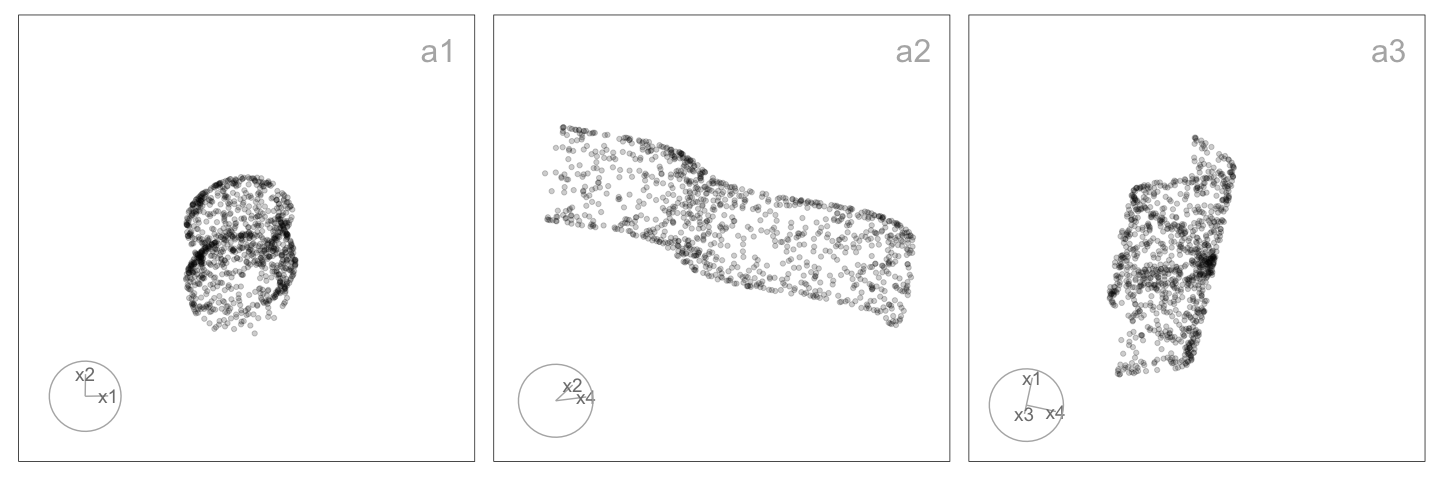
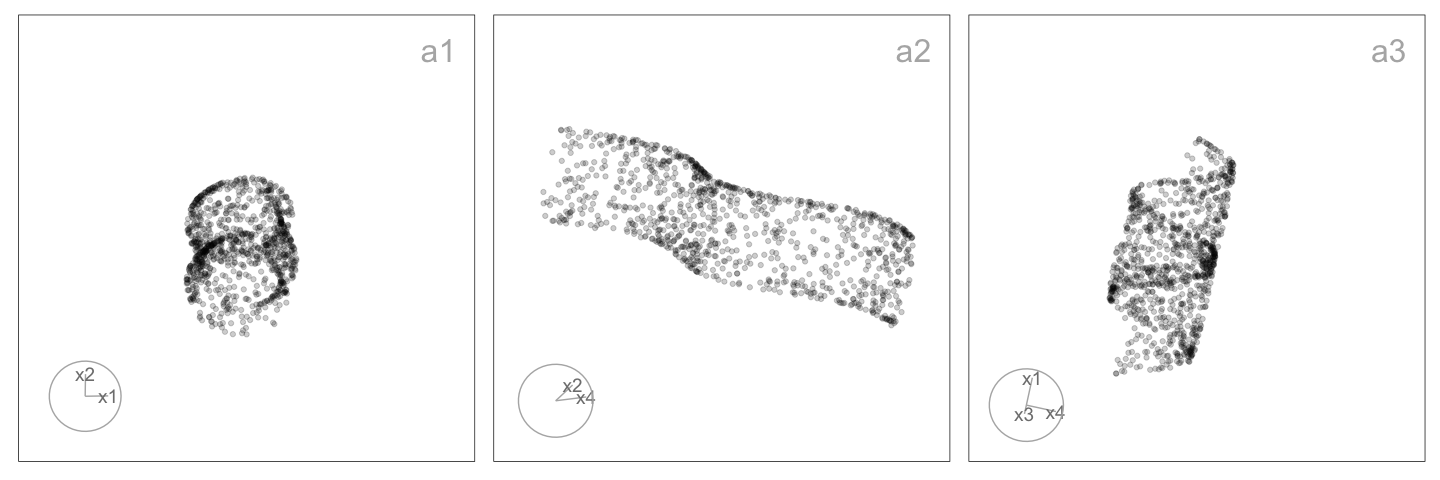
Added projection for S-curve data

Changed region(s): [[0.375, 0.25, 0.6562, 0.6875], [0.75, 0.2812, 0.875, 0.7812], [0.125, 0.3438, 0.2188, 0.7188]]

diff --git a/paper-cardinalR.html b/paper-cardinalR.html
@@ -177,7 +177,7 @@ code span.wa { color: #5e5e5e; font-style: italic; } /* Warning */
   <!--/radix_placeholder_rmarkdown_metadata-->
   
   <script type="text/json" id="radix-resource-manifest">
-  {"type":"character","attributes":{},"value":["data/five_clusts/five_clusts_pacmap_n-neighbors_10_init_random_MN-ratio_0.5_FP-ratio_2.rds","data/five_clusts/five_clusts_pca.rds","data/five_clusts/five_clusts_phate_knn_5.rds","data/five_clusts/five_clusts_trimap_n-inliers_12_n-outliers_4_n-random_3.rds","data/five_clusts/five_clusts_tsne_perplexity_30.rds","data/five_clusts/five_clusts_umap_n-neigbors_15_min-dist_0.1.rds","data/five_clusts/five_clusts.rds","data/three_clusts/three_clusts.rds","figures/penguins.png","motivation-letter/motivation-letter.md","motivation-letter.pdf","paper-cardinalR_files/anchor-4.2.2/anchor.min.js","paper-cardinalR_files/bowser-1.9.3/bowser.min.js","paper-cardinalR_files/distill-2.2.21/template.v2.js","paper-cardinalR_files/figure-html5/expbranches-projections1-1.png","paper-cardinalR_files/figure-html5/fig-cone-proj-1.png","paper-cardinalR_files/figure-html5/fig-conicspiral-proj-1.png","paper-cardinalR_files/figure-html5/fig-crescent-proj-1.png","paper-cardinalR_files/figure-html5/fig-curvycylinder-proj-1.png","paper-cardinalR_files/figure-html5/fig-gau-proj-1.png","paper-cardinalR_files/figure-html5/fig-helicalspiral-proj-1.png","paper-cardinalR_files/figure-html5/fig-highd-proj-1.png","paper-cardinalR_files/figure-html5/fig-linear-proj-1.png","paper-cardinalR_files/figure-html5/fig-mobius-proj-1.png","paper-cardinalR_files/figure-html5/fig-nldr-layouts-1.png","paper-cardinalR_files/figure-html5/fig-nonlinear-proj-1.png","paper-cardinalR_files/figure-html5/fig-sphericalspiral-proj-1.png","paper-cardinalR_files/figure-html5/fig-swissroll-proj-1.png","paper-cardinalR_files/figure-html5/unnamed-chunk-13-1.png","paper-cardinalR_files/figure-html5/unnamed-chunk-14-1.png","paper-cardinalR_files/figure-html5/unnamed-chunk-15-1.png","paper-cardinalR_files/header-attrs-2.29/header-attrs.js","paper-cardinalR_files/htmltools-fill-0.5.8.1/fill.css","paper-cardinalR_files/htmlwidgets-1.6.4/htmlwidgets.js","paper-cardinalR_files/jquery-3.6.0/jquery-3.6.0.js","paper-cardinalR_files/jquery-3.6.0/jquery-3.6.0.min.js","paper-cardinalR_files/jquery-3.6.0/jquery-3.6.0.min.map","paper-cardinalR_files/langevitour-0.8.0/langevitour-pack.js","paper-cardinalR_files/langevitour-binding-0.8.0/langevitour.js","paper-cardinalR_files/popper-2.6.0/popper.min.js","paper-cardinalR_files/tippy-6.2.7/tippy-bundle.umd.min.js","paper-cardinalR_files/tippy-6.2.7/tippy-light-border.css","paper-cardinalR_files/tippy-6.2.7/tippy.css","paper-cardinalR_files/tippy-6.2.7/tippy.umd.min.js","paper-cardinalR_files/webcomponents-2.0.0/webcomponents.js","paper-cardinalR.bib","paper-cardinalR.log","paper-cardinalR.pdf","paper-cardinalR.tex","RJournal.sty","RJwrapper.bbl","RJwrapper.blg","RJwrapper.brf","RJwrapper.log","RJwrapper.tex","Rlogo-5.png","scripts/additional_functions.R","scripts/five_clusts/01_data_generation.R","scripts/five_clusts/02_gen_embeddings.R","style.css"]}
+  {"type":"character","attributes":{},"value":["data/five_clusts/five_clusts_pacmap_n-neighbors_10_init_random_MN-ratio_0.5_FP-ratio_2.rds","data/five_clusts/five_clusts_pca.rds","data/five_clusts/five_clusts_phate_knn_5.rds","data/five_clusts/five_clusts_trimap_n-inliers_12_n-outliers_4_n-random_3.rds","data/five_clusts/five_clusts_tsne_perplexity_30.rds","data/five_clusts/five_clusts_umap_n-neigbors_15_min-dist_0.1.rds","data/five_clusts/five_clusts.rds","data/three_clusts/three_clusts.rds","figures/penguins.png","motivation-letter/motivation-letter.md","motivation-letter.pdf","paper-cardinalR_files/anchor-4.2.2/anchor.min.js","paper-cardinalR_files/bowser-1.9.3/bowser.min.js","paper-cardinalR_files/distill-2.2.21/template.v2.js","paper-cardinalR_files/figure-html5/expbranches-projections1-1.png","paper-cardinalR_files/figure-html5/fig-cone-proj-1.png","paper-cardinalR_files/figure-html5/fig-conicspiral-proj-1.png","paper-cardinalR_files/figure-html5/fig-crescent-proj-1.png","paper-cardinalR_files/figure-html5/fig-curvycylinder-proj-1.png","paper-cardinalR_files/figure-html5/fig-gau-proj-1.png","paper-cardinalR_files/figure-html5/fig-helicalspiral-proj-1.png","paper-cardinalR_files/figure-html5/fig-highd-proj-1.png","paper-cardinalR_files/figure-html5/fig-linear-proj-1.png","paper-cardinalR_files/figure-html5/fig-mobius-proj-1.png","paper-cardinalR_files/figure-html5/fig-nldr-layouts-1.png","paper-cardinalR_files/figure-html5/fig-nonlinear-proj-1.png","paper-cardinalR_files/figure-html5/fig-scurve-proj-1.png","paper-cardinalR_files/figure-html5/fig-scurvehole-proj-1.png","paper-cardinalR_files/figure-html5/fig-sphericalspiral-proj-1.png","paper-cardinalR_files/figure-html5/fig-swissroll-proj-1.png","paper-cardinalR_files/figure-html5/unnamed-chunk-13-1.png","paper-cardinalR_files/figure-html5/unnamed-chunk-14-1.png","paper-cardinalR_files/figure-html5/unnamed-chunk-15-1.png","paper-cardinalR_files/header-attrs-2.29/header-attrs.js","paper-cardinalR_files/htmltools-fill-0.5.8.1/fill.css","paper-cardinalR_files/htmlwidgets-1.6.4/htmlwidgets.js","paper-cardinalR_files/jquery-3.6.0/jquery-3.6.0.js","paper-cardinalR_files/jquery-3.6.0/jquery-3.6.0.min.js","paper-cardinalR_files/jquery-3.6.0/jquery-3.6.0.min.map","paper-cardinalR_files/langevitour-0.8.0/langevitour-pack.js","paper-cardinalR_files/langevitour-binding-0.8.0/langevitour.js","paper-cardinalR_files/popper-2.6.0/popper.min.js","paper-cardinalR_files/tippy-6.2.7/tippy-bundle.umd.min.js","paper-cardinalR_files/tippy-6.2.7/tippy-light-border.css","paper-cardinalR_files/tippy-6.2.7/tippy.css","paper-cardinalR_files/tippy-6.2.7/tippy.umd.min.js","paper-cardinalR_files/webcomponents-2.0.0/webcomponents.js","paper-cardinalR.bib","paper-cardinalR.log","paper-cardinalR.pdf","paper-cardinalR.tex","RJournal.sty","RJwrapper.bbl","RJwrapper.blg","RJwrapper.brf","RJwrapper.log","RJwrapper.tex","Rlogo-5.png","scripts/additional_functions.R","scripts/five_clusts/01_data_generation.R","scripts/five_clusts/02_gen_embeddings.R","style.css"]}
   </script>
   <!--radix_placeholder_navigation_in_header-->
   <!--/radix_placeholder_navigation_in_header-->
@@ -2256,6 +2256,56 @@ Figure 4: Three <span class="math inline">\(2\text{-}D\)</span> projections from
 <div class="layout-chunk" data-layout="l-body">
 
 </div>
+<div class="layout-chunk" data-layout="l-body">
+<div class="sourceCode">
+<pre class="sourceCode r"><code class="sourceCode r"><span><span class='va'>scurve</span> <span class='op'>&lt;-</span> <span class='fu'>gen_scurve</span><span class='op'>(</span>n <span class='op'>=</span> <span class='fl'>1000</span>, p <span class='op'>=</span> <span class='fl'>4</span><span class='op'>)</span></span></code></pre>
+</div>
+</div>
+<div class="layout-chunk" data-layout="l-body">
+
+</div>
+<div class="layout-chunk" data-layout="l-body">
+
+</div>
+<div class="layout-chunk" data-layout="l-body">
+
+</div>
+<div class="layout-chunk" data-layout="l-body">
+
+</div>
+<div class="layout-chunk" data-layout="l-body">
+<div class="figure"><span style="display:block;" id="fig:fig-scurve-proj"></span>
+<img src="paper-cardinalR_files/figure-html5/fig-scurve-proj-1.png" alt="Three $2\text{-}D$ projections from $4\text{-}D$, for the `scurve` data." width="100%" />
+<p class="caption">
+Figure 5: Three <span class="math inline">\(2\text{-}D\)</span> projections from <span class="math inline">\(4\text{-}D\)</span>, for the <code>scurve</code> data.
+</p>
+</div>
+</div>
+<div class="layout-chunk" data-layout="l-body">
+<div class="sourceCode">
+<pre class="sourceCode r"><code class="sourceCode r"><span><span class='va'>scurvehole</span> <span class='op'>&lt;-</span> <span class='fu'>gen_scurvehole</span><span class='op'>(</span>n <span class='op'>=</span> <span class='fl'>1000</span>, p <span class='op'>=</span> <span class='fl'>4</span><span class='op'>)</span></span></code></pre>
+</div>
+</div>
+<div class="layout-chunk" data-layout="l-body">
+
+</div>
+<div class="layout-chunk" data-layout="l-body">
+
+</div>
+<div class="layout-chunk" data-layout="l-body">
+
+</div>
+<div class="layout-chunk" data-layout="l-body">
+
+</div>
+<div class="layout-chunk" data-layout="l-body">
+<div class="figure"><span style="display:block;" id="fig:fig-scurvehole-proj"></span>
+<img src="paper-cardinalR_files/figure-html5/fig-scurvehole-proj-1.png" alt="Three $2\text{-}D$ projections from $4\text{-}D$, for the `scurvehole` data." width="100%" />
+<p class="caption">
+Figure 6: Three <span class="math inline">\(2\text{-}D\)</span> projections from <span class="math inline">\(4\text{-}D\)</span>, for the <code>scurvehole</code> data.
+</p>
+</div>
+</div>
 <h4 class="unnumbered" data-number="2.4.11" id="sphere">Sphere</h4>
 <div class="layout-chunk" data-layout="l-body">
 
@@ -2336,7 +2386,7 @@ X_i = \frac{\sin(i t)}{i}, \quad \text{for } i \geq 4.
 <div class="figure"><span style="display:block;" id="fig:fig-swissroll-proj"></span>
 <img src="paper-cardinalR_files/figure-html5/fig-swissroll-proj-1.png" alt="Three $2\text{-}D$ projections from $4\text{-}D$, for the `swissroll` data." width="100%" />
 <p class="caption">
-Figure 5: Three <span class="math inline">\(2\text{-}D\)</span> projections from <span class="math inline">\(4\text{-}D\)</span>, for the <code>swissroll</code> data.
+Figure 7: Three <span class="math inline">\(2\text{-}D\)</span> projections from <span class="math inline">\(4\text{-}D\)</span>, for the <code>swissroll</code> data.
 </p>
 </div>
 </div>
@@ -2405,7 +2455,7 @@ Figure 5: Three <span class="math inline">\(2\text{-}D\)</span> projections from
 <div class="figure"><span style="display:block;" id="fig:fig-crescent-proj"></span>
 <img src="paper-cardinalR_files/figure-html5/fig-crescent-proj-1.png" alt="Three $2\text{-}D$ projections from $4\text{-}D$, for the `crescent` data." width="100%" />
 <p class="caption">
-Figure 6: Three <span class="math inline">\(2\text{-}D\)</span> projections from <span class="math inline">\(4\text{-}D\)</span>, for the <code>crescent</code> data.
+Figure 8: Three <span class="math inline">\(2\text{-}D\)</span> projections from <span class="math inline">\(4\text{-}D\)</span>, for the <code>crescent</code> data.
 </p>
 </div>
 </div>
@@ -2430,7 +2480,7 @@ Figure 6: Three <span class="math inline">\(2\text{-}D\)</span> projections from
 <div class="figure"><span style="display:block;" id="fig:fig-curvycylinder-proj"></span>
 <img src="paper-cardinalR_files/figure-html5/fig-curvycylinder-proj-1.png" alt="Three $2\text{-}D$ projections from $4\text{-}D$, for the `curvycylinder` data." width="100%" />
 <p class="caption">
-Figure 7: Three <span class="math inline">\(2\text{-}D\)</span> projections from <span class="math inline">\(4\text{-}D\)</span>, for the <code>curvycylinder</code> data.
+Figure 9: Three <span class="math inline">\(2\text{-}D\)</span> projections from <span class="math inline">\(4\text{-}D\)</span>, for the <code>curvycylinder</code> data.
 </p>
 </div>
 </div>
@@ -2455,7 +2505,7 @@ Figure 7: Three <span class="math inline">\(2\text{-}D\)</span> projections from
 <div class="figure"><span style="display:block;" id="fig:fig-sphericalspiral-proj"></span>
 <img src="paper-cardinalR_files/figure-html5/fig-sphericalspiral-proj-1.png" alt="Three $2\text{-}D$ projections from $4\text{-}D$, for the `sphericalspiral` data." width="100%" />
 <p class="caption">
-Figure 8: Three <span class="math inline">\(2\text{-}D\)</span> projections from <span class="math inline">\(4\text{-}D\)</span>, for the <code>sphericalspiral</code> data.
+Figure 10: Three <span class="math inline">\(2\text{-}D\)</span> projections from <span class="math inline">\(4\text{-}D\)</span>, for the <code>sphericalspiral</code> data.
 </p>
 </div>
 </div>
@@ -2480,7 +2530,7 @@ Figure 8: Three <span class="math inline">\(2\text{-}D\)</span> projections from
 <div class="figure"><span style="display:block;" id="fig:fig-helicalspiral-proj"></span>
 <img src="paper-cardinalR_files/figure-html5/fig-helicalspiral-proj-1.png" alt="Three $2\text{-}D$ projections from $4\text{-}D$, for the `helicalspiral` data." width="100%" />
 <p class="caption">
-Figure 9: Three <span class="math inline">\(2\text{-}D\)</span> projections from <span class="math inline">\(4\text{-}D\)</span>, for the <code>helicalspiral</code> data.
+Figure 11: Three <span class="math inline">\(2\text{-}D\)</span> projections from <span class="math inline">\(4\text{-}D\)</span>, for the <code>helicalspiral</code> data.
 </p>
 </div>
 </div>
@@ -2505,7 +2555,7 @@ Figure 9: Three <span class="math inline">\(2\text{-}D\)</span> projections from
 <div class="figure"><span style="display:block;" id="fig:fig-conicspiral-proj"></span>
 <img src="paper-cardinalR_files/figure-html5/fig-conicspiral-proj-1.png" alt="Three $2\text{-}D$ projections from $4\text{-}D$, for the `conicspiral` data." width="100%" />
 <p class="caption">
-Figure 10: Three <span class="math inline">\(2\text{-}D\)</span> projections from <span class="math inline">\(4\text{-}D\)</span>, for the <code>conicspiral</code> data.
+Figure 12: Three <span class="math inline">\(2\text{-}D\)</span> projections from <span class="math inline">\(4\text{-}D\)</span>, for the <code>conicspiral</code> data.
 </p>
 </div>
 </div>
@@ -2530,7 +2580,7 @@ Figure 10: Three <span class="math inline">\(2\text{-}D\)</span> projections fro
 <div class="figure"><span style="display:block;" id="fig:fig-nonlinear-proj"></span>
 <img src="paper-cardinalR_files/figure-html5/fig-nonlinear-proj-1.png" alt="Three $2\text{-}D$ projections from $4\text{-}D$, for the `nonlinear` data." width="100%" />
 <p class="caption">
-Figure 11: Three <span class="math inline">\(2\text{-}D\)</span> projections from <span class="math inline">\(4\text{-}D\)</span>, for the <code>nonlinear</code> data.
+Figure 13: Three <span class="math inline">\(2\text{-}D\)</span> projections from <span class="math inline">\(4\text{-}D\)</span>, for the <code>nonlinear</code> data.
 </p>
 </div>
 </div>
@@ -2635,7 +2685,7 @@ Figure 11: Three <span class="math inline">\(2\text{-}D\)</span> projections fro
 <h2 data-number="3" id="application"><span class="header-section-number">3</span> Application</h2>
 <h3 data-number="3.1" id="assessing-the-performance-of-dimension-reduction-on-different-geometric-structures-in-high-dimensions"><span class="header-section-number">3.1</span> Assessing the performance of dimension reduction on different geometric structures in high-dimensions</h3>
 <p>This section illustrates the use of package by generating a synthetic dataset to evaluate the performance of six popular dimension reduction techniques: Principal Component Analysis (PCA) <span class="citation" data-cites="jolliffe2011">(<a href="#ref-jolliffe2011" role="doc-biblioref">Jolliffe 2011</a>)</span>, t-distributed stochastic neighbor embedding (tSNE) <span class="citation" data-cites="laurens2008">(<a href="#ref-laurens2008" role="doc-biblioref">Maaten and Hinton 2008</a>)</span>, uniform manifold approximation and projection (UMAP) <span class="citation" data-cites="leland2018">(<a href="#ref-leland2018" role="doc-biblioref">McInnes et al. 2018</a>)</span>, potential of heat-diffusion for affinity-based trajectory embedding (PHATE) algorithm <span class="citation" data-cites="moon2019">(<a href="#ref-moon2019" role="doc-biblioref">Moon et al. 2019</a>)</span>, large-scale dimensionality reduction Using triplets (TriMAP) <span class="citation" data-cites="amid2019">(<a href="#ref-amid2019" role="doc-biblioref">Amid and Warmuth 2019</a>)</span>, and pairwise controlled manifold approximation (PaCMAP) <span class="citation" data-cites="yingfan2021">(<a href="#ref-yingfan2021" role="doc-biblioref">Wang et al. 2021</a>)</span>.</p>
-<p>The following code generates a dataset of five clusters, positioned with equal inter-cluster distances in <span class="math inline">\(4\text{-}D\)</span> space (Figure <a href="#fig:fig-highd-proj">12</a>).</p>
+<p>The following code generates a dataset of five clusters, positioned with equal inter-cluster distances in <span class="math inline">\(4\text{-}D\)</span> space (Figure <a href="#fig:fig-highd-proj">14</a>).</p>
 <div class="layout-chunk" data-layout="l-body">
 <div class="sourceCode">
 <pre class="sourceCode r"><code class="sourceCode r"><span><span class='va'>positions</span> <span class='op'>&lt;-</span> <span class='fu'>geozoo</span><span class='fu'>::</span><span class='fu'><a href='https://rdrr.io/pkg/geozoo/man/simplex.html'>simplex</a></span><span class='op'>(</span>p<span class='op'>=</span><span class='fl'>4</span><span class='op'>)</span><span class='op'>$</span><span class='va'>points</span></span>
@@ -2667,7 +2717,7 @@ Figure 11: Three <span class="math inline">\(2\text{-}D\)</span> projections fro
 <div class="figure"><span style="display:block;" id="fig:fig-highd-proj"></span>
 <img src="paper-cardinalR_files/figure-html5/fig-highd-proj-1.png" alt="Three $2\text{-}D$ projections from $4\text{-}D$, for the `mobiusgau` data. The helical spiral cluster is represented in dark green, the hemisphere cluster in orange, the uniform cube-shaped cluster in purple, the blunted cone cluster in pink, and the Gaussian-shaped cluster in light green." width="100%" />
 <p class="caption">
-Figure 12: Three <span class="math inline">\(2\text{-}D\)</span> projections from <span class="math inline">\(4\text{-}D\)</span>, for the <code>mobiusgau</code> data. The helical spiral cluster is represented in dark green, the hemisphere cluster in orange, the uniform cube-shaped cluster in purple, the blunted cone cluster in pink, and the Gaussian-shaped cluster in light green.
+Figure 14: Three <span class="math inline">\(2\text{-}D\)</span> projections from <span class="math inline">\(4\text{-}D\)</span>, for the <code>mobiusgau</code> data. The helical spiral cluster is represented in dark green, the hemisphere cluster in orange, the uniform cube-shaped cluster in purple, the blunted cone cluster in pink, and the Gaussian-shaped cluster in light green.
 </p>
 </div>
 </div>
@@ -2679,11 +2729,11 @@ Figure 12: Three <span class="math inline">\(2\text{-}D\)</span> projections fro
 <div class="figure"><span style="display:block;" id="fig:fig-nldr-layouts"></span>
 <img src="paper-cardinalR_files/figure-html5/fig-nldr-layouts-1.png" alt="Six different dimension reduction representations of the `mobiusgau` data using default hyperparameter settings: (a) tSNE, (b) UMAP, (c) PAHTE, (d) TriMAP, (e) PaCMAP, and (f) PCA." width="100%" />
 <p class="caption">
-Figure 13: Six different dimension reduction representations of the <code>mobiusgau</code> data using default hyperparameter settings: (a) tSNE, (b) UMAP, (c) PAHTE, (d) TriMAP, (e) PaCMAP, and (f) PCA.
+Figure 15: Six different dimension reduction representations of the <code>mobiusgau</code> data using default hyperparameter settings: (a) tSNE, (b) UMAP, (c) PAHTE, (d) TriMAP, (e) PaCMAP, and (f) PCA.
 </p>
 </div>
 </div>
-<p>UMAP, PHATE, TriMAP, and PaCMAP effectively separate the five clusters and show the preservation of the global structure (Figure <a href="#fig:fig-nldr-layouts">13</a>). However, PHATE reveals three non-linear clusters, even though two of them do not show non-linearity. UMAP, TriMAP, and PaCMAP successfully maintain the local structures of the data. In contrast, tSNE divides the non-linear cluster into sub-clusters. Also, tSNE fails to preserve the distances between the clusters. PCA, on the other hand, preserves the local structures of the clusters, but some clusters are incorrectly merged that should remain distinct.</p>
+<p>UMAP, PHATE, TriMAP, and PaCMAP effectively separate the five clusters and show the preservation of the global structure (Figure <a href="#fig:fig-nldr-layouts">15</a>). However, PHATE reveals three non-linear clusters, even though two of them do not show non-linearity. UMAP, TriMAP, and PaCMAP successfully maintain the local structures of the data. In contrast, tSNE divides the non-linear cluster into sub-clusters. Also, tSNE fails to preserve the distances between the clusters. PCA, on the other hand, preserves the local structures of the clusters, but some clusters are incorrectly merged that should remain distinct.</p>
 <h2 data-number="4" id="discussion"><span class="header-section-number">4</span> Discussion</h2>
 <ul>
 <li>Branching: These functions create a controlled environment for testing how effectively various algorithms preserve branching topology and continuity in their low-dimensional embeddings.</li>

diff --git a/paper-cardinalR.md b/paper-cardinalR.md
@@ -532,6 +532,83 @@ Table: (\#tab:scurve-tb-html)cardinalR S-curve data generation functions
 </div>
 
 
+<div class="layout-chunk" data-layout="l-body">
+<div class="sourceCode"><pre class="sourceCode r"><code class="sourceCode r"><span><span class='va'>scurve</span> <span class='op'>&lt;-</span> <span class='fu'>gen_scurve</span><span class='op'>(</span>n <span class='op'>=</span> <span class='fl'>1000</span>, p <span class='op'>=</span> <span class='fl'>4</span><span class='op'>)</span></span></code></pre></div>
+
+</div>
+
+
+<div class="layout-chunk" data-layout="l-body">
+
+
+</div>
+
+
+<div class="layout-chunk" data-layout="l-body">
+
+
+</div>
+
+
+<div class="layout-chunk" data-layout="l-body">
+
+
+</div>
+
+
+<div class="layout-chunk" data-layout="l-body">
+
+
+</div>
+
+
+<div class="layout-chunk" data-layout="l-body">
+<div class="figure">
+<img src="paper-cardinalR_files/figure-html5/fig-scurve-proj-1.png" alt="Three $2\text{-}D$ projections from $4\text{-}D$, for the `scurve` data." width="100%" />
+<p class="caption">(\#fig:fig-scurve-proj)Three $2\text{-}D$ projections from $4\text{-}D$, for the `scurve` data.</p>
+</div>
+
+</div>
+
+
+<div class="layout-chunk" data-layout="l-body">
+<div class="sourceCode"><pre class="sourceCode r"><code class="sourceCode r"><span><span class='va'>scurvehole</span> <span class='op'>&lt;-</span> <span class='fu'>gen_scurvehole</span><span class='op'>(</span>n <span class='op'>=</span> <span class='fl'>1000</span>, p <span class='op'>=</span> <span class='fl'>4</span><span class='op'>)</span></span></code></pre></div>
+
+</div>
+
+
+<div class="layout-chunk" data-layout="l-body">
+
+
+</div>
+
+
+<div class="layout-chunk" data-layout="l-body">
+
+
+</div>
+
+
+<div class="layout-chunk" data-layout="l-body">
+
+
+</div>
+
+
+<div class="layout-chunk" data-layout="l-body">
+
+
+</div>
+
+
+<div class="layout-chunk" data-layout="l-body">
+<div class="figure">
+<img src="paper-cardinalR_files/figure-html5/fig-scurvehole-proj-1.png" alt="Three $2\text{-}D$ projections from $4\text{-}D$, for the `scurvehole` data." width="100%" />
+<p class="caption">(\#fig:fig-scurvehole-proj)Three $2\text{-}D$ projections from $4\text{-}D$, for the `scurvehole` data.</p>
+</div>
+
+</div>
+
 
 ### Sphere
 
